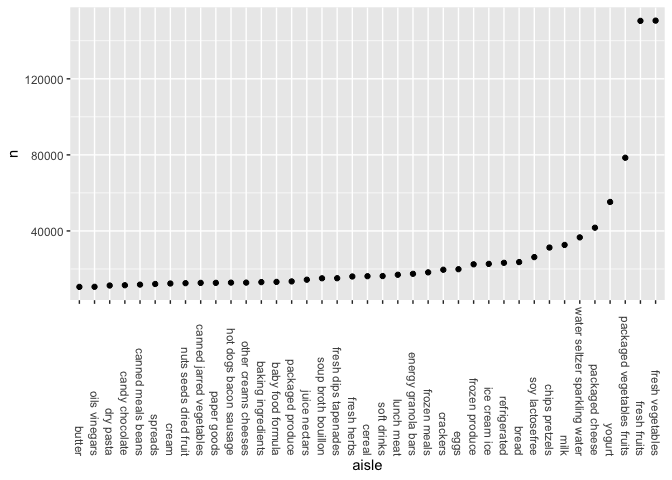
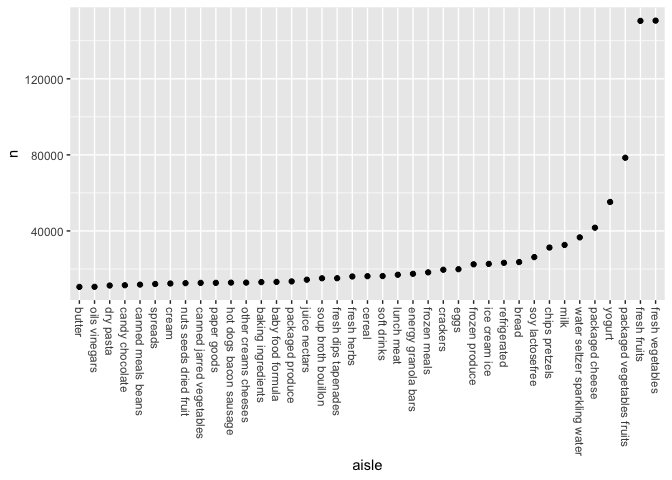
problem 1.3 solved, table created!!

Changed region(s): [[0.0938, 0.625, 0.8438, 0.9688], [0.875, 0.625, 1.0, 0.9688]]

diff --git a/p8105_hw3_jh4323.md b/p8105_hw3_jh4323.md
@@ -59,8 +59,38 @@ aisle_df %>%
     aisle = fct_reorder(aisle, n)
   ) %>% 
   ggplot(aes(x = aisle, y = n)) +
-  theme(axis.text.x = element_text(angle = 270, vjust = 0.5, hjust = 1)) +
+  theme(axis.text.x = element_text(angle = -90, vjust = 0.5, hjust = 0)) +
   geom_point()
 ```
 
 ![](p8105_hw3_jh4323_files/figure-gfm/unnamed-chunk-4-1.png)<!-- -->
+
+-   1.3 Make a table showing the three most popular items in each of the
+    aisles “baking ingredients”, “dog food care”, and “packaged
+    vegetables fruits”. Include the number of times each item is ordered
+    in your table.
+
+``` r
+instacart %>% 
+  filter(aisle %in% c("baking ingredients", "dog food care", "packaged vegetables fruits")) %>% 
+  group_by(aisle) %>% 
+  count(product_name) %>% 
+  mutate(
+    rank = rank(desc(n))
+  ) %>% 
+  filter(rank < 4) %>% 
+  arrange(aisle, rank) %>% 
+  knitr::kable() #print the table
+```
+
+| aisle                      | product\_name                                 |    n | rank |
+|:---------------------------|:----------------------------------------------|-----:|-----:|
+| baking ingredients         | Light Brown Sugar                             |  499 |    1 |
+| baking ingredients         | Pure Baking Soda                              |  387 |    2 |
+| baking ingredients         | Cane Sugar                                    |  336 |    3 |
+| dog food care              | Snack Sticks Chicken & Rice Recipe Dog Treats |   30 |    1 |
+| dog food care              | Organix Chicken & Brown Rice Recipe           |   28 |    2 |
+| dog food care              | Small Dog Biscuits                            |   26 |    3 |
+| packaged vegetables fruits | Organic Baby Spinach                          | 9784 |    1 |
+| packaged vegetables fruits | Organic Raspberries                           | 5546 |    2 |
+| packaged vegetables fruits | Organic Blueberries                           | 4966 |    3 |
